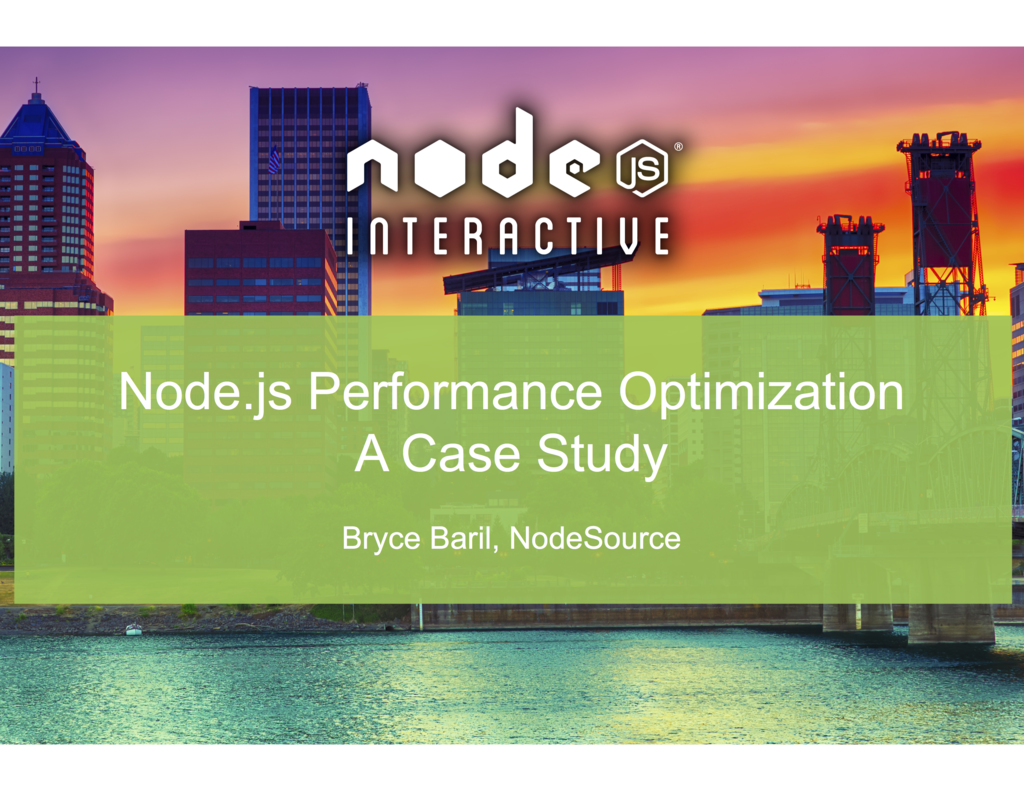
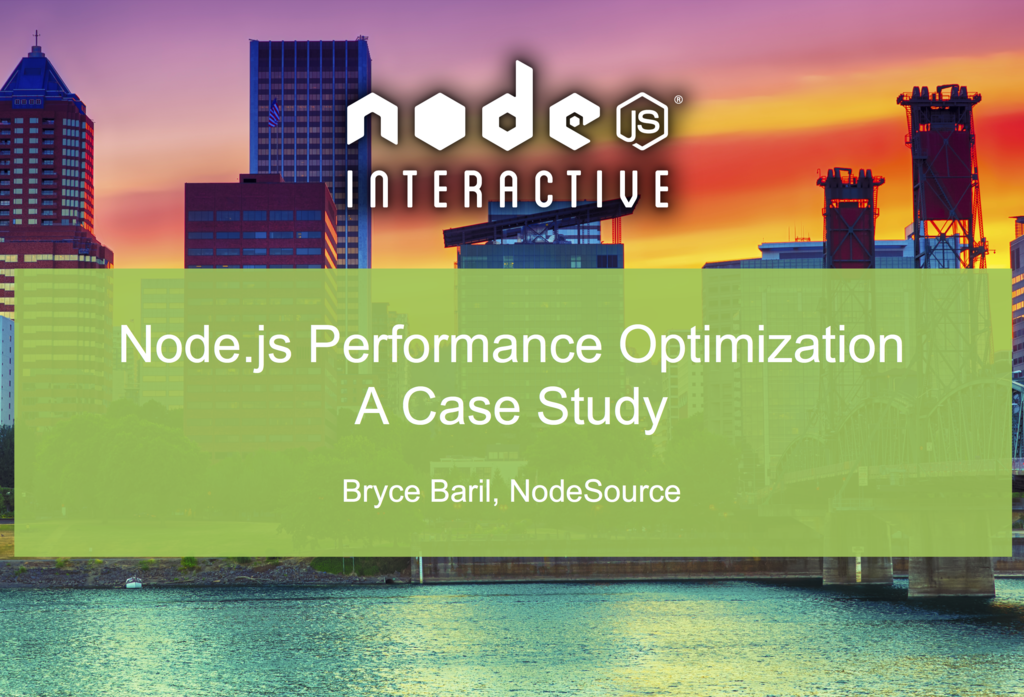
Reformat title slide

diff --git a/index.html b/index.html
@@ -40,8 +40,8 @@
 
       <!-- Any section element inside of this container is displayed as a slide -->
       <div class="slides">
-        <section data-background="img/title_slide.png">
-&nbsp;
+        <section data-markdown>
+![title slide](img/title_slide.png)
         </section>
 
         <section data-markdown>
